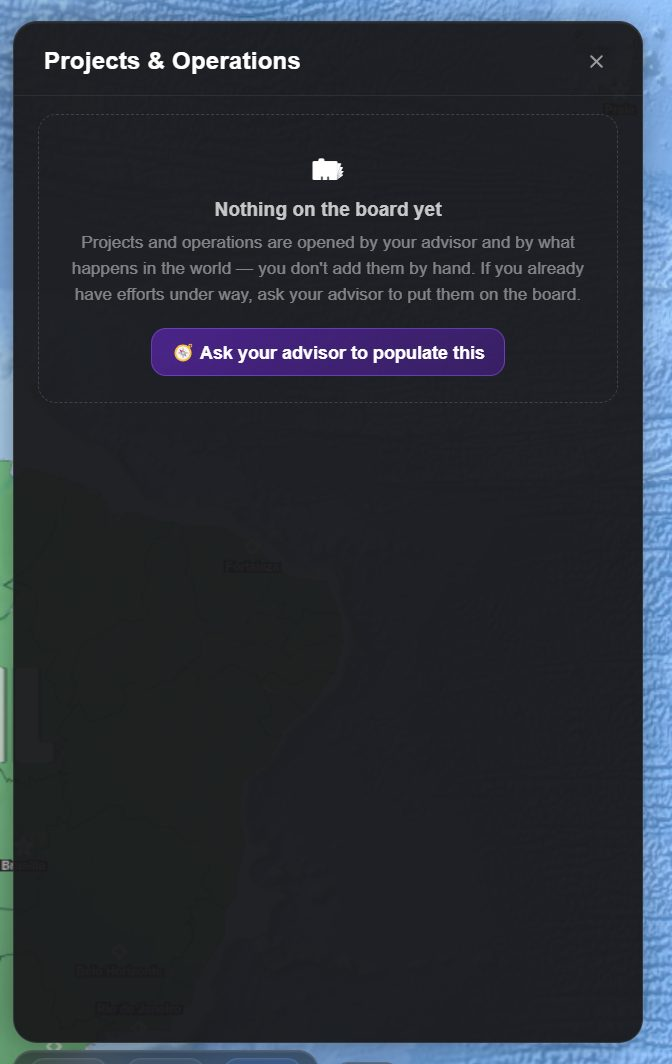
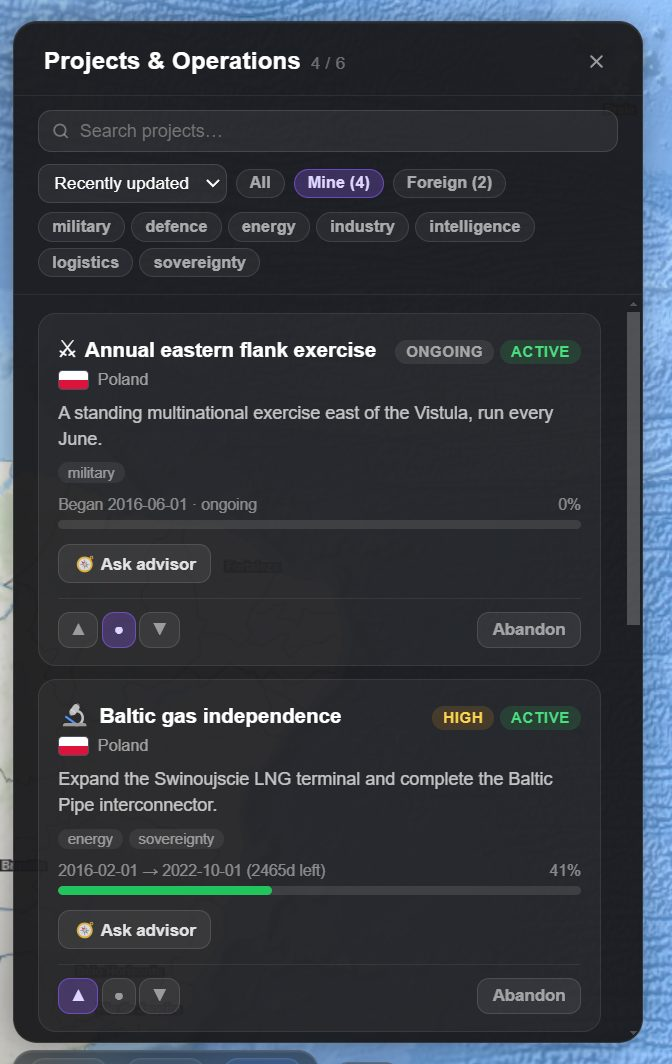
Wiki: espionage in every state it can be in, and a projects board with work on it
The espionage page had a picture of an empty Spy tab and one healthy agent,
which showed none of what makes the system interesting. It now shows all of it in
one frame: an agent running in Germany, one flagged "possibly compromised", a
line recording one Belarus expelled, and a German agent caught inside Poland
waiting on the player's decision, with the Expel/Turn buttons and the cover-story
field for feeding it if turned.

Plus an intercept, which is the best of the lot. It is rendered at 39% clarity
with the unreadable words blanked and the punctuation left standing, and 39% is
exactly what the formula on that page produces for a service of 55 reading one of
61. The caption does the arithmetic so a reader can check it.

The projects board is populated: four of the player's own efforts and two foreign
ones, across every status, secrecy level and priority, with milestones both done
and missed. It shows the Mine/Foreign counts, the tag chips, the per-card
priority control, and an ongoing effort carrying no target date.

Both were authored directly into the scratch save rather than played into. The
espionage rolls are ~8% per jump and independent, so waiting for one agent to be
caught, another turned, and a third expelled would have taken a very long
campaign; the board needs a dozen turns of world events before it fills. The
records written are the same shapes the engine writes, and the screenshots are
[…]

diff --git a/public/wiki/espionage/index.html b/public/wiki/espionage/index.html
@@ -170,10 +170,15 @@ it moves like any other national statistic.</p>
 and caps.</p>
 <p>An active agent reports: it feeds you the target&#39;s private diplomatic traffic, subject to how
 much of it you can actually read.</p>
+<p><img src="/wiki/img/espionage-deploy.jpg" alt="Choosing a target for an agent">
+<em>The target picker. Countries you already have an agent in are not offered again — one agent per
+country, and never yourself.</em></p>
 <p>You can give an agent a <strong>cover story</strong>, <strong>recall</strong> it at any time, and see everything it has
 sent.</p>
-<p><img src="/wiki/img/espionage-active-agent.jpg" alt="An agent in the field">
-<em>An agent in Germany. Both services are shown, because the gap between them is what the detection roll turns on.</em></p>
+<p><img src="/wiki/img/espionage-states.jpg" alt="The Spy tab with agents in several states">
+<em>Every state at once: an agent running in Germany, one flagged <strong>possibly compromised</strong>, a line
+recording one Belarus expelled, and a German agent caught inside Poland waiting on your decision —
+expel it, or turn it and write what it reports home.</em></p>
 <h2 id="getting-caught">Getting caught</h2>
 <p>Every jump, each of your agents is rolled against the target&#39;s service.</p>
 <p>The chance of detection is driven mostly by the <strong>gap</strong> between the two services:</p>
@@ -254,6 +259,9 @@ both services:</p>
 <pre><code>clarity = 0.12 + (yours/100) × 0.88 − (theirs/100) × 0.35
           clamped to between 6% and 100%
 </code></pre>
+<p><img src="/wiki/img/espionage-intercept.jpg" alt="An intercepted exchange, partly redacted">
+<em>An intercept read at 39% clarity. The formula above gives exactly that for a service of 55
+reading one of 61: <code>0.12 + 0.55×0.88 − 0.61×0.35</code>. Punctuation survives; the words do not.</em></p>
 <p>Unreadable words are blanked out, but punctuation and sentence rhythm survive, so you can often
 tell the shape of what was said even when you cannot read it. Raising your intelligence rating
 only ever reveals <em>more</em> of a message you have already seen — it never re-hides anything.</p>

diff --git a/wiki/systems/espionage.md b/wiki/systems/espionage.md
@@ -41,11 +41,18 @@ and caps.
 An active agent reports: it feeds you the target's private diplomatic traffic, subject to how
 much of it you can actually read.
 
+![Choosing a target for an agent](/wiki/img/espionage-deploy.jpg)
+*The target picker. Countries you already have an agent in are not offered again — one agent per
+country, and never yourself.*
+
+
 You can give an agent a **cover story**, **recall** it at any time, and see everything it has
 sent.
 
-![An agent in the field](/wiki/img/espionage-active-agent.jpg)
-*An agent in Germany. Both services are shown, because the gap between them is what the detection roll turns on.*
+![The Spy tab with agents in several states](/wiki/img/espionage-states.jpg)
+*Every state at once: an agent running in Germany, one flagged **possibly compromised**, a line
+recording one Belarus expelled, and a German agent caught inside Poland waiting on your decision —
+expel it, or turn it and write what it reports home.*
 
 ## Getting caught
 
@@ -139,6 +146,10 @@ both services:
 clarity = 0.12 + (yours/100) × 0.88 − (theirs/100) × 0.35
           clamped to between 6% and 100%
 ```
+
+![An intercepted exchange, partly redacted](/wiki/img/espionage-intercept.jpg)
+*An intercept read at 39% clarity. The formula above gives exactly that for a service of 55
+reading one of 61: `0.12 + 0.55×0.88 − 0.61×0.35`. Punctuation survives; the words do not.*
 
 Unreadable words are blanked out, but punctuation and sentence rhythm survive, so you can often
 tell the shape of what was said even when you cannot read it. Raising your intelligence rating

diff --git a/wiki/systems/projects.md b/wiki/systems/projects.md
@@ -8,7 +8,9 @@ This is also where research and technology live. There is no tech tree; there is
 programme with milestones that either progresses or stalls.
 
 ![The Projects and Operations board](/wiki/img/beta-projects.jpg)
-*A fresh board. The empty state states the rule: entries are opened by your advisor and by what happens in the world — you never add them by hand.*
+*A board on a campaign that has been running a while. Note the counts — **Mine (4)**,
+**Foreign (2)** — the tag chips, the priority control on each card, and that an **ongoing** effort
+carries no target date and so can never run late.*
 
 ## Projects and operations
 
